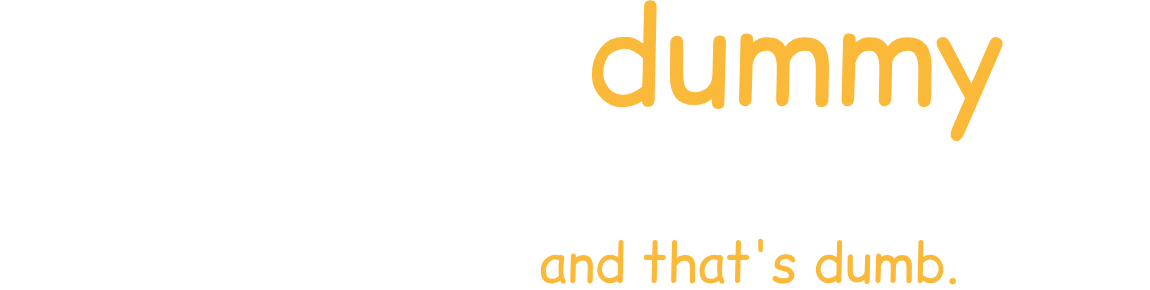
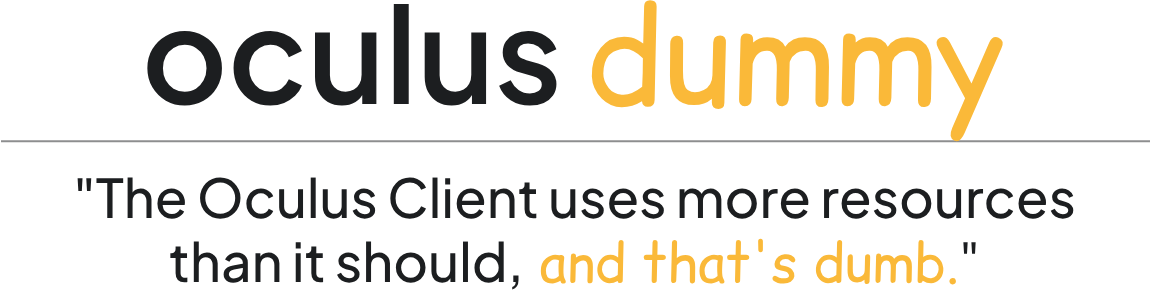
Added light mode support to readme

diff --git a/README.md b/README.md
@@ -1,7 +1,10 @@
 <br>
 <h3 align="center"></h3>
 <p align="center">
-    <img alt="iCon" src="https://github.com/kckarnige/OculusDummy/blob/main/oculusdummy-banner-readme.png?raw=true" width="500px">
+    <picture>
+        <source media="(prefers-color-scheme: dark)" srcset="https://github.com/kckarnige/OculusDummy/blob/main/oculusdummy-banner-readme-dark.png?raw=true" width="500px">
+        <img alt="iCon" src="https://github.com/kckarnige/OculusDummy/blob/main/oculusdummy-banner-readme.png?raw=true" width="500px">
+    </picture> 
 </p>
 <br>
 
